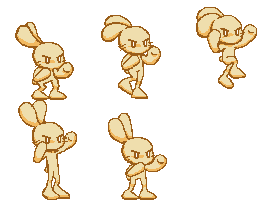
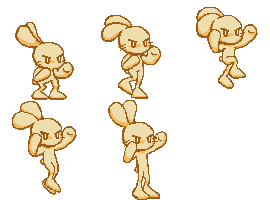
Add damage and punch hit boxes
- Modified Zombie class to be able to take damage
- Modified Player class to deal damage to zombies based on punch hitbox (changes based on animation)
- Added additional frame to jump animation

diff --git a/src/game/models/Player.ts b/src/game/models/Player.ts
@@ -1,3 +1,5 @@
+import Zombie from "./Zombie";
+
 export default class Player extends Phaser.Physics.Arcade.Sprite {
     keys: {
         up: Phaser.Input.Keyboard.Key,
@@ -10,6 +12,16 @@ export default class Player extends Phaser.Physics.Arcade.Sprite {
     private speed = 350;
     private jumpSpeed = -500;
     private isPunching = false;
+
+    punchHitBox : any;
+    hitEnemies = new Set<Zombie>();
+    health = 100;
+    private punchOffsets : {[key: number]: {x: number, y: number}} = {
+        0: {x : 20, y : 10},
+        1: {x : 20, y : 10},
+        2: {x : 22, y : 10},
+        3: {x : 25, y : 10}
+    }
     
     constructor(scene: Phaser.Scene, x: number, y: number) {
         super(scene, x, y, 'idle', 0)
@@ -19,6 +31,15 @@ export default class Player extends Phaser.Physics.Arcade.Sprite {
         scene.physics.add.existing(this);
         this.setCollideWorldBounds(true);
         // this.setScale(2);
+        this.setSize(60, 90);
+
+        this.punchHitBox = scene.add.rectangle(this.x, this.y, 40, 25, 0xffffff, 0) as Phaser.GameObjects.Rectangle & { body: Phaser.Physics.Arcade.Body };
+        scene.add.existing(this.punchHitBox);
+        scene.physics.add.existing(this.punchHitBox);
+        this.punchHitBox.body.setAllowGravity(false);
+        this.punchHitBox.body.setImmovable(true);
+        this.punchHitBox.body.enable = false;
+        this.punchHitBox.body.debugShowBody = false;
 
         this.keys = scene.input.keyboard!.addKeys({
             up: 'W',
@@ -29,10 +50,15 @@ export default class Player extends Phaser.Physics.Arcade.Sprite {
 
         this.play('idle')
 
-        // Camera shake
+        // Camera shake and hitbox adjustments
         this.on(Phaser.Animations.Events.ANIMATION_UPDATE, (anim : Phaser.Animations.Animation, frame: Phaser.Animations.AnimationFrame) => {
-            if (anim.key === 'punch' && frame.index === 3) {
-                this.scene.cameras.main.shake(100, 0.01);
+            if (anim.key === 'punch') {
+                // Enable punchHitBox only when animation is playing
+                this.punchHitBox.body.enable = true;
+                this.punchHitBox.body.debugShowBody = true;
+                const offset = this.punchOffsets[frame.index] || { x: 20, y: 10};
+                const dir = this.flipX ? -1 : 1;
+                this.punchHitBox.setPosition(this.x + dir * offset.x, this.y + offset.y);
             }
         });
     }
@@ -49,6 +75,10 @@ export default class Player extends Phaser.Physics.Arcade.Sprite {
             // Reset punching flag when animation completes
             this.once(Phaser.Animations.Events.ANIMATION_COMPLETE, () => {
                 this.isPunching = false;
+                this.punchHitBox.body.debugShowBody = false;
+                this.punchHitBox.body.enable = false;
+
+                this.hitEnemies.clear();
             });
 
             return;
@@ -58,7 +88,7 @@ export default class Player extends Phaser.Physics.Arcade.Sprite {
         if (this.isPunching) {
             this.setVelocityX(0);
             return;
-        }
+        } 
 
         // Horizontal movement
         if (this.keys.left.isDown) {
@@ -83,6 +113,25 @@ export default class Player extends Phaser.Physics.Arcade.Sprite {
         // Falling
         if (!isOnGround && this.body!.velocity.y > 0 && this.anims.currentAnim?.key !== 'jump_end') {
             this.play('jump_end', true);
+        }
+    }
+
+    takeDamage(damage: number, knockbackDir: number) {
+        const knockbackForce = 200;
+        this.setVelocityX(knockbackForce * knockbackDir);
+        this.scene.cameras.main.shake(10, 0.05);
+
+        if (this.health - damage <= 0) {
+            // Play death animation
+            this.health = 0;
+            this.setVisible(false);
+            this.setActive(false);
+        } else {
+            this.health -= damage;
+            this.setTint(0xd0312d);
+            this.scene.time.delayedCall(200, () => {
+                this.clearTint();
+            })
         }
     }
 

diff --git a/src/game/scenes/Game.ts b/src/game/scenes/Game.ts
@@ -6,6 +6,9 @@ export class Game extends Scene {
     camera!: Phaser.Cameras.Scene2D.Camera;
     background!: Phaser.GameObjects.TileSprite;
     msg_text: Phaser.GameObjects.Text;
+
+    player_health_bar: Phaser.GameObjects.Rectangle;
+
     player!: Player;
     zombies!: Array<Zombie>;
 
@@ -22,6 +25,7 @@ export class Game extends Scene {
     }
 
     create() {
+        // Camera settings
         this.camera = this.cameras.main;
         this.camera.roundPixels = true;
         this.camera.setZoom(2);
@@ -33,6 +37,7 @@ export class Game extends Scene {
         )
 
         this.background = this.add.tileSprite(512, 525, 1024, 768, 'background');
+        this.physics.world.setBounds(0, 0, this.world_width, this.world_height);
 
         this.msg_text = this.add.text(512, 100, 'Use W A D to move\nMake something fun!', {
             fontFamily: 'Arial Black', fontSize: 28, color: '#ffffff',
@@ -40,7 +45,9 @@ export class Game extends Scene {
             align: 'center'
         }).setOrigin(0.5);
 
-        this.physics.world.setBounds(0, 0, this.world_width, this.world_height);
+        // HUD
+        this.add.rectangle(512, 200, 468, 32).setStrokeStyle(1, 0xffffff).setScrollFactor(0);
+        this.player_health_bar = this.add.rectangle(512-230, 200, 0, 28, 0xffffff).setScrollFactor(0);
 
         // Create player
         this.player = new Player(this, 512, 600);
@@ -48,9 +55,9 @@ export class Game extends Scene {
 
         // Create zombies 
         this.zombies = [];
-
-        const zombie1 = new Zombie(this, 600, 768, this.player);
-        this.zombies.push(zombie1);
+        this.createZombie(600, 768);
+        this.createZombie(100, 768);
+        this.createZombie(200, 768);
     }
 
     update(time: any) {
@@ -61,5 +68,23 @@ export class Game extends Scene {
 
         this.background.tilePositionX = this.player.x;
         this.background.setX(this.player.x);
+
+        // Update HUD
+        this.player_health_bar.width = (460 * this.player.health/100);
+        
+    }
+
+    private createZombie(x: number, y: number){
+        const zombie = new Zombie(this, x, y, this.player);
+        this.zombies.push(zombie);
+        this.physics.add.overlap(
+            this.player.punchHitBox, zombie, () => {
+                if (!this.player.hitEnemies.has(zombie)) {
+                    const dir = this.player.flipX ? -1 : 1;
+                    this.player.hitEnemies.add(zombie);
+                    zombie.takeDamage(10, dir);
+                }
+            }
+        )
     }
 }

diff --git a/src/game/models/Zombie.ts b/src/game/models/Zombie.ts
@@ -1,8 +1,9 @@
 import Player from "./Player"
 export default class Zombie extends Phaser.Physics.Arcade.Sprite {
+    private health = 100;
     private player : Player;
     private speed = 30;
-    private attackRange = 30;
+    private attackRange = 60;
     private attackCooldown = 1000;
     private lastAttackTime = 0;
 
@@ -15,6 +16,7 @@ export default class Zombie extends Phaser.Physics.Arcade.Sprite {
         scene.physics.world.enable(this);
         scene.add.existing(this);
         this.setCollideWorldBounds(true);
+        this.setSize(70, 90);
     }
 
     update(time: number) {
@@ -42,10 +44,32 @@ export default class Zombie extends Phaser.Physics.Arcade.Sprite {
 
     attack(currentTime: number) {
         if (currentTime - this.lastAttackTime >= this.attackCooldown) {
+            this.lastAttackTime = currentTime;
             this.setTint(0x0000ff);
+            const dir = this.flipX ? 1 : -1;
+            this.player.takeDamage(10, dir);
             this.scene.time.delayedCall(200, () => {
                 this.clearTint();
             })
         }
     }
+
+    takeDamage(damage: number, knockbackDir: number) {
+        const knockbackForce = 500;
+        this.setVelocityX(knockbackForce * knockbackDir);
+        this.scene.cameras.main.shake(100, 0.01);
+
+        if (this.health - damage <= 0) {
+            // Play death animation
+            this.destroy(true);
+        } else {
+            this.health -= damage;
+            this.setTint(0xd0312d);
+            this.scene.time.delayedCall(200, () => {
+                this.clearTint();
+            })
+        }
+    }
+
+
 }

diff --git a/src/game/scenes/Preloader.ts b/src/game/scenes/Preloader.ts
@@ -73,14 +73,14 @@ export class Preloader extends Scene
         });
         this.anims.create({
             key: 'jump_end',
-            frames: this.anims.generateFrameNumbers('jump', { start: 2, end: 3 }),
+            frames: this.anims.generateFrameNumbers('jump', { start: 2, end: 4 }),
             frameRate: 12,
             repeat: 0
         });
         this.anims.create({
             key: 'punch',
-            frames: this.anims.generateFrameNumbers('punch', { start: 0, end: 3 }),
-            frameRate: 6,
+            frames: this.anims.generateFrameNumbers('punch', { start: 1, end: 3 }),
+            frameRate: 12,
             repeat: 0
         });
 
